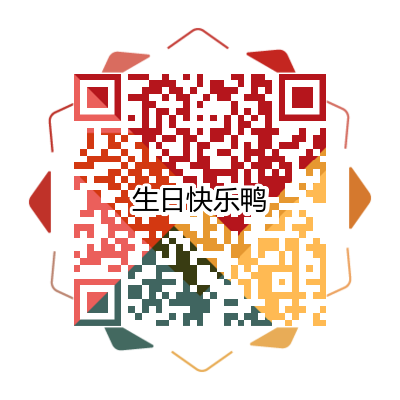
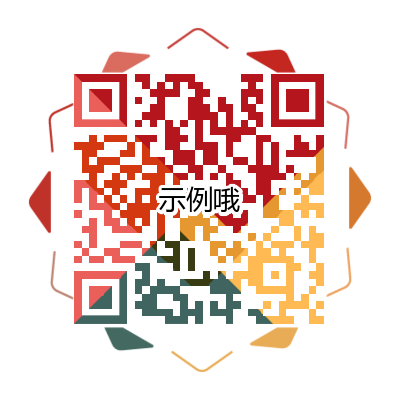
readme

Changed region(s): [[0.18, 0.18, 0.84, 0.84]]

diff --git a/index.html b/index.html
@@ -2,13 +2,12 @@
 <html lang="en">
 <head>
     <meta charset="UTF-8">
-    <title>张宝, 生日快乐鸭！</title>
+    <title>xxx, 生日快乐鸭！</title>
     <script src="https://cdn.bootcdn.net/ajax/libs/jquery/3.6.0/jquery.min.js"></script>
     <link rel="shortcut icon" href="./static/icon.svg" type="image/x-icon">
     <link rel="stylesheet" href="stylesheet/main.css">
     <link rel="stylesheet" href="https://cdnjs.cloudflare.com/ajax/libs/Swiper/4.5.1/css/swiper.min.css"/>
     <script src="https://cdnjs.cloudflare.com/ajax/libs/gsap/1.18.0/TweenMax.min.js"></script>
-    <script src="script/main.js"></script>
     <meta name="viewport" content="width=device-width, initial-scale=1.0, maximum-scale=1.0, user-scalable=0">
     <script>
         var lighton = false;
@@ -207,7 +206,7 @@
     </path>
                     <path fill="#a88679" d="M173.667,21.571c-33.174,0-111.467,0-147.334,0c-4,0-4-16.002,0-16.002c39.836,0,105.982,0,147.334,0
 		C177.668,5.569,177.667,21.571,173.667,21.571z">
-        <animate id="bizcocho_1" attributeName="d" calcMode="spline" keySplines="0 0 1 1; 0 0 1 1; 0 0 1 1; 0.25 0 1 1; 0 0 1 1; 0.25 0 0.6 1" begin="2s" dur="0.8s" fill="freeze" values="
+        <animate id="bizcocho_1" attributeName="d" calcMode="spline" keySplines="0 0 1 1; 0 0 1 1; 0 0 1 1; 0.25 0 1 1; 0 0 1 1; 0.25 0 0.6 1" begin="1s" dur="0.8s" fill="freeze" values="
                           M173.667,21.571c-33.174,0-111.467,0-147.334,0c-4,0-4-16.002,0-16.002c39.836,0,105.982,0,147.334,0
 		C177.668,5.569,177.667,21.571,173.667,21.571z
                           ;
@@ -281,7 +280,6 @@
             </div>
             <div class="text">
                 <h1>happy birthday!</h1>
-<!--                这里改成张的英文名-->
                 <h2>Noah</h2>
             </div>
         </div>
@@ -589,7 +587,7 @@
     });
 
     $(".popImage img").click(function (){
-        window.location.href="https://www.wenjuan.com/s/UZBZJvKy2WW/#";
+        window.location.href="https://mh.cli.im/";
         // console.log("12");
     });
 
@@ -597,7 +595,6 @@
 
 
 <script>
-
     $(".gift").click(function (){
         openGift();
     });
@@ -623,6 +620,7 @@
                 // console.log("start");
             },
             onComplete: function () {
+                // 此处为礼品盒打开动画结束后执行的动作
                 $(".gift").css("display", "none");
                 $(".popImage .blur").addClass("active");
 

diff --git a/README.md b/README.md
@@ -1,3 +1,16 @@
 # Birthday
-手机端  
-使用`gitee pages`服务展示页面，使得微信上也可以直接这个网页。  
+仅仅是手机端  
+演示视频地址: [bilibili]() (之后再补地址)
+
+## 提示
+
+在实际使用的时候应使用`gitee pages`服务展示页面，使得微信上也可以看到这个网页(然而`gitee pages`把缓存设置地很恶心，
+你必须清除浏览器记录才能看到变化(微信是清除缓存), 所以到微信里频繁调试)。  
+本来在最后的二维码是用来让他填写他家地址来收我们生日礼物的, 用的是问卷网，像这样(里面有些语法错误别见怪哈哈):  
+![demo](./demo/demo.png)。
+
+### 修改清单
+
+1. 网页标题人名
+2. 第二页人民
+3. 第三页二维码和点击跳转地址(body里倒数第二个script标签里)
